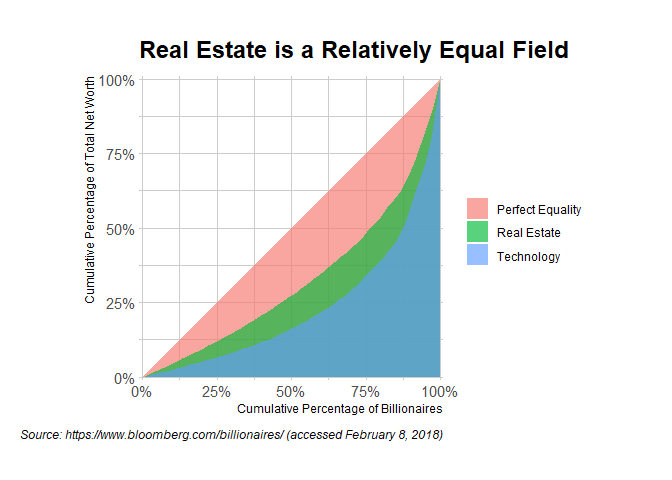
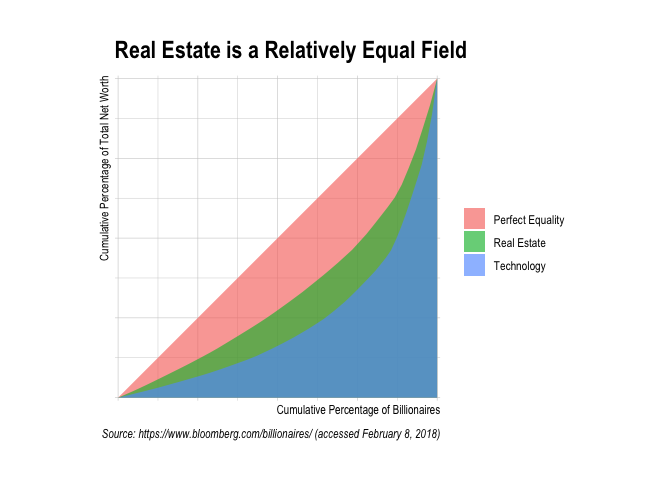
Add ws and rerendering Rmd

diff --git a/README.md b/README.md
@@ -32,12 +32,12 @@ you.
 
 ``` r
 library(tidyverse)
-#> -- Attaching packages ---------------------------------------------------------------- tidyverse 1.3.0 --
-#> v ggplot2 3.3.0     v purrr   0.3.4
-#> v tibble  3.0.1     v dplyr   0.8.5
-#> v tidyr   1.0.3     v stringr 1.4.0
-#> v readr   1.3.1     v forcats 0.5.0
-#> -- Conflicts ------------------------------------------------------------------- tidyverse_conflicts() --
+#> ── Attaching packages ─────────────────────────────────────────────────────────────────────── tidyverse 1.2.1 ──
+#> ✓ ggplot2 3.3.0          ✓ purrr   0.3.3.9000
+#> ✓ tibble  3.0.1          ✓ dplyr   0.8.3     
+#> ✓ tidyr   0.8.3          ✓ stringr 1.4.0     
+#> ✓ readr   1.3.1          ✓ forcats 0.4.0
+#> ── Conflicts ────────────────────────────────────────────────────────────────────────── tidyverse_conflicts() ──
 #> x dplyr::filter() masks stats::filter()
 #> x dplyr::lag()    masks stats::lag()
 library(gglorenz)
@@ -56,7 +56,7 @@ billionaires
 #>  8 8     Larry Ellison   $54.7B          United States Technology   54.7
 #>  9 9     Larry Page      $52.6B          United States Technology   52.6
 #> 10 10    Sergey Brin     $51.2B          United States Technology   51.2
-#> # ... with 490 more rows
+#> # … with 490 more rows
 
 billionaires %>%
     ggplot(aes(TNW)) +
@@ -93,9 +93,10 @@ billionaires %>%
          caption = "Source: https://www.bloomberg.com/billionaires/ (accessed February 8, 2018)")
 ```
 
-<img src="man/figures/README-unnamed-chunk-1-2.png" width="100%" /> The
-annotate\_ineq() function allows you to label the chart with inequality
-statistics such as the Gini coefficient:
+<img src="man/figures/README-unnamed-chunk-1-2.png" width="100%" />
+
+The annotate\_ineq() function allows you to label the chart with
+inequality statistics such as the Gini coefficient:
 
 ``` r
 billionaires %>%
@@ -111,7 +112,7 @@ billionaires %>%
          y = "Cumulative Percentage of Total Net Worth",
          title = "Inequality Among Billionaires",
          caption = "Source: https://www.bloomberg.com/billionaires/ (accessed February 8, 2018)") +
-  annotate_ineq(billionaires$TNW)
+    annotate_ineq(billionaires$TNW)
 ```
 
 <img src="man/figures/README-unnamed-chunk-2-1.png" width="100%" />
